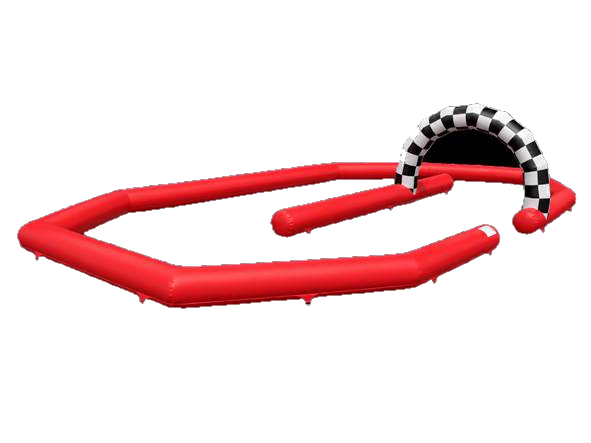
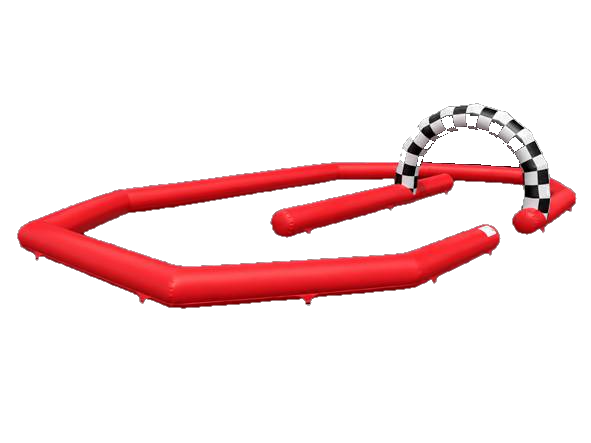
Igor's final corrections: FAQ, form title, track image fix
- FAQ "Čo ak prší?": updated to storno conditions (50% min)
- FAQ "Čo všetko je zahrnuté?": added note about autíčka optional
- Form: added red uppercase "REZERVAČNÝ FORMULÁR" heading
- assets/track.png: flood-fill removed black interior of arch (3194px → transparent)

Changed region(s): [[0.7005, 0.2641, 0.8832, 0.3815]]

diff --git a/index.html b/index.html
@@ -367,6 +367,7 @@
   .contact-detail strong{display:block;font-size:13px;font-weight:700;color:var(--ink);margin-bottom:2px}
   .contact-detail span{font-size:14px;color:var(--muted)}
   .form-card{background:#fff;border:1px solid var(--line);border-radius:26px;padding:36px;box-shadow:var(--shadow-sm)}
+  .form-title{font-family:var(--display);font-weight:800;font-size:13px;letter-spacing:1.5px;text-transform:uppercase;color:var(--red);margin-bottom:22px}
   .form-row{display:grid;grid-template-columns:1fr 1fr;gap:16px}
   .field{display:flex;flex-direction:column;gap:7px;margin-bottom:16px}
   .field:last-of-type{margin-bottom:0}
@@ -737,7 +738,7 @@
             Čo ak prší?
             <span class="faq-chevron"><svg viewBox="0 0 24 24" fill="none" stroke-width="2.5" stroke-linecap="round" stroke-linejoin="round"><path d="M6 9l6 6 6-6"/></svg></span>
           </button>
-          <div class="faq-body"><p>Pri slabom daždi je vonkajšia prevádzka možná. V prípade silného dažďa alebo búrky bezpečnosť stojí na prvom mieste — dohodneme náhradný termín bez poplatku. Odporúčame mať záložný krytý priestor pre vonkajšie akcie.</p></div>
+          <div class="faq-body"><p>V prípade silného dažďa a zrušenia podujatia, je možná dohoda na kompenzácii nákladov, avšak v minimálnej hodnote 50% dohodnutej celkovej sumy, plus náklady za dopravu.</p></div>
         </div>
 
         <div class="faq-item">
@@ -745,7 +746,7 @@
             Čo všetko je zahrnuté v cene?
             <span class="faq-chevron"><svg viewBox="0 0 24 24" fill="none" stroke-width="2.5" stroke-linecap="round" stroke-linejoin="round"><path d="M6 9l6 6 6-6"/></svg></span>
           </button>
-          <div class="faq-body"><p>V cene je montáž a demontáž trate, elektrické autíčka, vyškolená obsluha počas celej akcie, bezpečnostné vybavenie (prilby) a poistenie atrakcie. Doprava na miesto akcie sa účtuje osobitne podľa vzdialenosti.</p></div>
+          <div class="faq-body"><p>V cene je montáž a demontáž trate, elektrické autíčka (ak ste si ich vybrali tiež), vyškolená obsluha počas celej akcie, bezpečnostné vybavenie (prilby) a poistenie atrakcie. Doprava na miesto akcie sa účtuje osobitne podľa vzdialenosti.</p></div>
         </div>
 
         <div class="faq-item">
@@ -794,6 +795,7 @@
       </div>
 
       <div class="form-card reveal">
+        <p class="form-title">Rezervačný formulár</p>
         <form id="contactForm" novalidate>
           <div class="form-row">
             <div class="field">
@@ -881,7 +883,7 @@
       <div class="foot-grid">
         <div class="foot-l">
           <a href="/" class="logo"><span class="flag"></span>B<span>A</span>MPER</a>
-          <p>Prenájom nafukovacích pretekárskych tratí a elektrických bugín pre detské a firemné akcie — Východné a Stredné Slovensko.</p>
+          <p>Prenájom nafukovacích pretekárskych tratí a elektrických autíčok pre detské a firemné akcie — Východné a Stredné Slovensko.</p>
         </div>
         <div class="foot-cols">
           <div class="fcol">